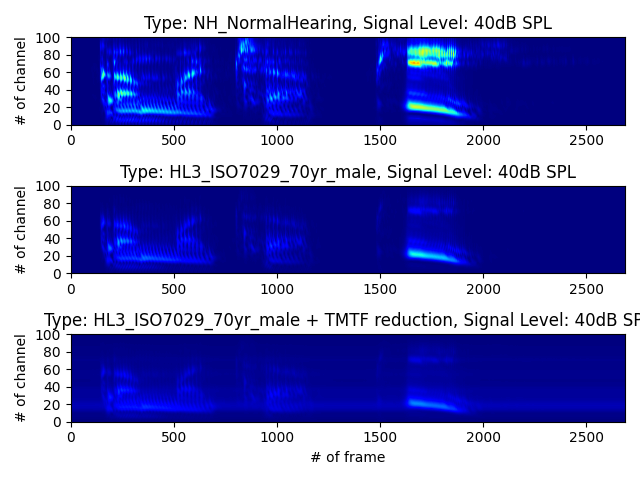
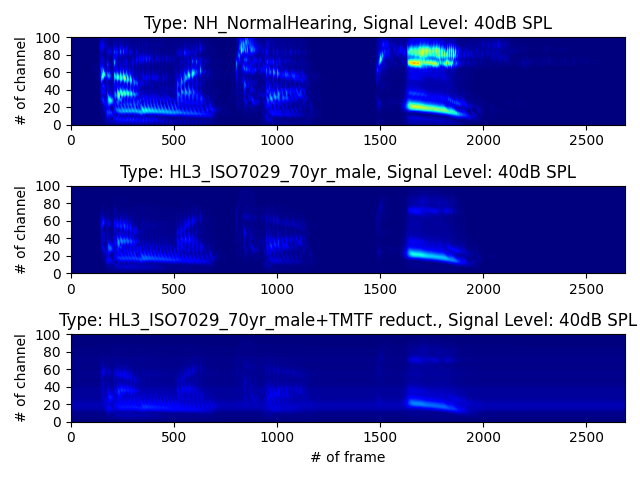
Mod: small changes and updates

Changed region(s): [[0.0625, 0.625, 1.0, 0.6875]]

diff --git a/gcfb_v234/test_gcfb_v234_speech.py b/gcfb_v234/test_gcfb_v234_speech.py
@@ -148,7 +148,7 @@ def main():
             ax3 = fig.add_subplot(3, 1, 3)
             plt.imshow(np.maximum(gcem_loss, 0), vmax=scaling, extent=[0, num_frame, 0, num_ch], \
                        aspect='auto', origin='lower', cmap='jet')
-            ax3.set_title('Type: ' + gc_param_hl3.hloss.type + ' + TMTF reduction' \
+            ax3.set_title('Type: ' + gc_param_hl3.hloss.type + '+TMTF reduct.' \
                           + f', Signal Level: {dbspl}dB SPL')
             ax3.set_yticks((y_ticks))
             ax3.set_xlabel("# of frame")

diff --git a/gcfb_v234/test_gcfb_v234_pulse.py b/gcfb_v234/test_gcfb_v234_pulse.py
@@ -145,7 +145,7 @@ def main():
             ax3 = fig.add_subplot(3, 1, 3)
             plt.imshow(np.maximum(gcem_loss, 0), vmax=scaling, extent=[0, num_frame, 0, num_ch], \
                        aspect='auto', origin='lower', cmap='jet')
-            ax3.set_title('Type: ' + gc_param_hl3.hloss.type + '+TMTF reduction' \
+            ax3.set_title('Type: ' + gc_param_hl3.hloss.type + '+TMTF reduct.' \
                           + f', Level: {dbspl}dB SPL')
             ax3.set_yticks((y_ticks))
             ax3.set_xlabel("# of frame")
